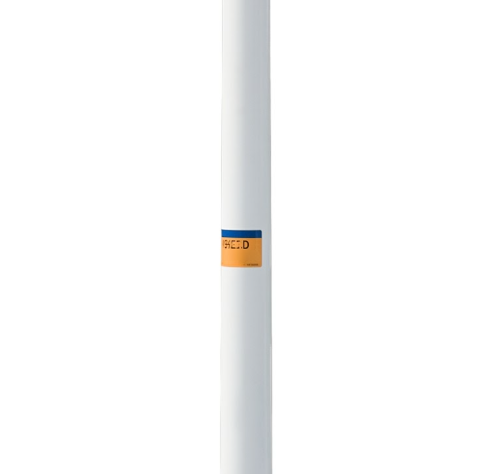
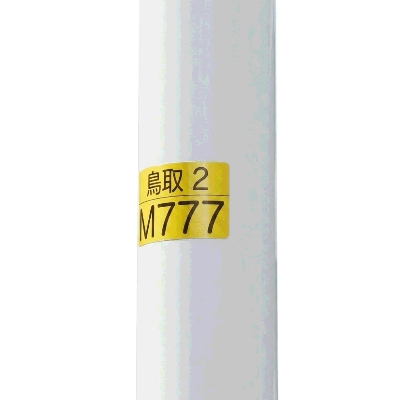
update

Changed region(s): [[0.33, 0.0, 0.72, 1.0]]

diff --git a/src/content/rule/asia/japan/kyusyu/kumamoto/_index.ja.md b/src/content/rule/asia/japan/kyusyu/kumamoto/_index.ja.md
@@ -143,9 +143,7 @@ references:
     <ul class="rule-list">
       <li>市外局番は096</li>
         <li>熊本の標識には赤いテープが巻いてある</li>
-        <li>菊陽町を中心に半導体企業が多く進出している</li>
         <li>この県にしかない<span class="quiz">止まれ</span>道路標示のデザインがある</li>
-        <li>標識のポールに<span class="quiz">点検シール</span>がある</li>
     </ul>
     {{% corp "asia/japan" "kyusyu/Kumamoto" %}}
 </div>
@@ -153,7 +151,7 @@ references:
 {{% tabs %}}
 {{% tab "赤いテープ" %}}
 {{% notice tip %}}
-標識や看板の支柱に赤いテープが巻いてある。
+標識や看板の支柱に赤いテープが巻いてある{{% ex "https://maps.app.goo.gl/ypmxr8QtNuzdHkHy8" "https://maps.app.goo.gl/4aER16X4dcivzGjV6" %}}。
 {{% /notice %}}
 
 <div class="googlemap-if">
@@ -169,16 +167,6 @@ references:
 
 <div class="googlemap-if">
 <img src="/rule/stop/kumamoto.jpg" width="240px" alt="熊本県の止まれ道路標示">
-</div>
-
-{{% /tab %}}
-{{% tab "標識ポール" %}}
-{{% notice tip %}}
-標識のポールに点検シールが貼られている。シールの様式に地域差が出ることがある。
-{{% /notice %}}
-
-<div class="googlemap-if">
-<img src="/rule/poles/kumamoto.png" width="200px" alt="熊本の標識ポール">
 </div>
 
 {{% /tab %}}

diff --git a/src/content/rule/asia/japan/kanto/ibaraki/_index.ja.md b/src/content/rule/asia/japan/kanto/ibaraki/_index.ja.md
@@ -145,7 +145,7 @@ references:
     <h2 class="section-title">全域</h2>
     <ul class="rule-list">
       <li>市外局番は029</li>
-      <li>標識のポールに<span class="quiz">点検シール</span>がある</li>
+      <li>標識のポールに黄色いテープが３本巻かれている</li>
     </ul>
     {{% corp "asia/japan" "kanto/ibaraki" %}}
 </div>
@@ -153,11 +153,11 @@ references:
 {{% tabs %}}
 {{% tab "標識ポール" %}}
 {{% notice tip %}}
-標識のポールに点検シールが貼られている。シールの様式に地域差が出ることがある。
+黄色いテープが３本巻かれている。覚えやすく、視認性も◎{{% ex "https://maps.app.goo.gl/UAdtzDFJJkziV3ys7" "https://maps.app.goo.gl/DATD6htX9k7m1f2A8" %}}。
 {{% /notice %}}
 
 <div class="googlemap-if">
-<img src="/rule/poles/ibaraki.png" width="200px" alt="茨城の標識ポール">
+<img src="/rule/poles/ibaraki.png" width="300px" alt="茨城の標識ポール">
 </div>
 
 {{% /tab %}}

diff --git a/src/content/rule/asia/japan/chugoku/tottori/_index.ja.md b/src/content/rule/asia/japan/chugoku/tottori/_index.ja.md
@@ -94,7 +94,7 @@ references:
     <h2 class="section-title">全域</h2>
     <ul class="rule-list">
       <li>市外局番は0857</li>
-      <li>標識のポールに<span class="quiz">点検シール</span>がある</li>
+      <li>標識のポールに黄色いシールが貼られている</li>
     </ul>
     {{% corp "asia/japan" "chugoku/tottori" %}}
 </div>
@@ -102,7 +102,7 @@ references:
 {{% tabs %}}
 {{% tab "標識ポール" %}}
 {{% notice tip %}}
-標識のポールに点検シールが貼られている。シールの様式に地域差が出ることがある。
+標識のポールに黄色いシールが張られている{{% ex "https://maps.app.goo.gl/6Giptf4HUQZDwKLt7" "https://maps.app.goo.gl/wL5EWPGUxipRDcD48" %}}。鳥取県というシールが貼られているときも。
 {{% /notice %}}
 
 <div class="googlemap-if">
@@ -119,7 +119,6 @@ references:
         <li>鳥取市の<span class="quiz">鳥取砂丘</span>は日本最大級の観光砂丘</li>
         <li>境港市は<span class="quiz">水産</span>の街で、水木しげるロードの妖怪ブロンズ像が並ぶ</li>
         <li>倉吉市は白壁土蔵と赤瓦の町並みが残る</li>
-        <li>県境にそびえる大山は中国地方最高峰で、平野部の目印になる</li>
     </ul>
 </div>
 

diff --git a/src/content/rule/asia/japan/chugoku/okayama/_index.ja.md b/src/content/rule/asia/japan/chugoku/okayama/_index.ja.md
@@ -112,7 +112,7 @@ references:
     <h2 class="section-title">全域</h2>
     <ul class="rule-list">
       <li>市外局番は086</li>
-      <li>標識のポールに<span class="quiz">点検シール</span>がある</li>
+      <li>標識のポールに黄色いシールが見つかる</li>
     </ul>
     {{% corp "asia/japan" "chugoku/okayama" %}}
 </div>
@@ -120,7 +120,7 @@ references:
 {{% tabs %}}
 {{% tab "標識ポール" %}}
 {{% notice tip %}}
-標識のポールに点検シールが貼られている{{% ex "https://maps.app.goo.gl/UgXsASEsXKDMJCoD7" "https://maps.app.goo.gl/6Eamv9wX9bCUPxWY8" %}}。シールの様式に地域差が出ることがある。
+標識のポールに標識管理番号が記載された黄色いシールが貼られている{{% ex "https://maps.app.goo.gl/UgXsASEsXKDMJCoD7" "https://maps.app.goo.gl/6Eamv9wX9bCUPxWY8" %}}。一枚387円らしい{{% ref "https://www.pref.okayama.jp/uploaded/life/1035858_10023985_misc.pdf" "標識資材単価 - 岡山県" %}}？
 {{% /notice %}}
 
 <div class="googlemap-if">

diff --git a/src/content/rule/asia/japan/kinki/nara/_index.ja.md b/src/content/rule/asia/japan/kinki/nara/_index.ja.md
@@ -121,7 +121,7 @@ references:
     <h2 class="section-title">全域</h2>
     <ul class="rule-list">
       <li>市外局番は0742</li>
-      <li>標識のポールに<span class="quiz">点検シール</span>がある</li>
+      <li>標識のポールに貼られたシールから県が特定できる</li>
     </ul>
     {{% corp "asia/japan" "kinki/nara" %}}
 </div>
@@ -129,7 +129,7 @@ references:
 {{% tabs %}}
 {{% tab "標識ポール" %}}
 {{% notice tip %}}
-標識のポールに点検シールが貼られている。シールの様式に地域差が出ることがある。
+標識のポールに貼られているシールから県がわかる。
 {{% /notice %}}
 
 <div class="googlemap-if">

diff --git a/src/content/rule/asia/japan/kinki/osaka/_index.ja.md b/src/content/rule/asia/japan/kinki/osaka/_index.ja.md
@@ -142,7 +142,7 @@ references:
     <h2 class="section-title">全域</h2>
     <ul class="rule-list">
       <li>市外局番は06</li>
-      <li>標識のポールに<span class="quiz">点検シール</span>がある</li>
+      <li>標識のポールに貼られたシールから県が特定できる</li>
     </ul>
     {{% corp "asia/japan" "kinki/osaka" %}}
 </div>
@@ -150,7 +150,7 @@ references:
 {{% tabs %}}
 {{% tab "標識ポール" %}}
 {{% notice tip %}}
-標識のポールに点検シールが貼られている。シールの様式に地域差が出ることがある。
+標識のポールに貼られているシールから県がわかる。
 {{% /notice %}}
 
 <div class="googlemap-if">

diff --git a/src/content/rule/asia/japan/kyusyu/nagasaki/_index.ja.md b/src/content/rule/asia/japan/kyusyu/nagasaki/_index.ja.md
@@ -129,7 +129,7 @@ references:
       <li>斜面が多い</li>
       <li>自転車を保有している家庭が少ない</li>
       <li>この県にしかない<span class="quiz">止まれ</span>道路標示のデザインがある</li>
-      <li>標識のポールに<span class="quiz">点検シール</span>がある</li>
+      <li>標識のポールに貼られたシールから県が特定できる</li>
     </ul>
     {{% corp "asia/japan" "kyusyu/nagasaki" %}}
 </div>
@@ -137,7 +137,7 @@ references:
 {{% tabs %}}
 {{% tab "標識ポール" %}}
 {{% notice tip %}}
-標識のポールに点検シールが貼られている。シールの様式に地域差が出ることがある。
+標識のポールに貼られているシールから県がわかる。
 {{% /notice %}}
 
 <div class="googlemap-if">

diff --git a/src/content/rule/asia/japan/kyusyu/oita/_index.ja.md b/src/content/rule/asia/japan/kyusyu/oita/_index.ja.md
@@ -112,7 +112,7 @@ references:
     <ul class="rule-list">
       <li>市外局番は097</li>
       <li>この県にしかない<span class="quiz">止まれ</span>道路標示のデザインがある</li>
-      <li>標識のポールに<span class="quiz">点検シール</span>がある</li>
+      <li>標識のポールに貼られたシールから県が特定できる</li>
     </ul>
     {{% corp "asia/japan" "kyusyu/oita" %}}
 </div>
@@ -131,7 +131,7 @@ references:
 {{% /tab %}}
 {{% tab "標識ポール" %}}
 {{% notice tip %}}
-標識のポールに点検シールが貼られている。シールの様式に地域差が出ることがある。
+標識のポールに貼られているシールから県がわかる。
 {{% /notice %}}
 
 <div class="googlemap-if">

diff --git a/src/content/rule/asia/japan/kyusyu/saga/_index.ja.md b/src/content/rule/asia/japan/kyusyu/saga/_index.ja.md
@@ -117,7 +117,7 @@ references:
       <li>市外局番は0952</li>
         <li>佐賀と{{% goto "../miyazaki/" "宮崎" %}}では六角形の擁壁が見られる</li>
         <li>佐賀～{{% goto "../fukuoka/" "福岡" %}}の平野部では日本で最大規模のクリークが広がっている</li>
-        <li>標識のポールに<span class="quiz">点検シール</span>がある</li>
+        <li>標識のポールに貼られたシールから県が特定できる</li>
     </ul>
     {{% corp "asia/japan" "kyusyu/saga" %}}
 </div>
@@ -146,7 +146,7 @@ references:
 {{% /tab %}}
 {{% tab "標識ポール" %}}
 {{% notice tip %}}
-標識のポールに点検シールが貼られている。シールの様式に地域差が出ることがある。
+標識のポールに貼られているシールから県がわかる。
 {{% /notice %}}
 
 <div class="googlemap-if">

diff --git a/src/content/rule/asia/japan/shikoku/ehime/_index.ja.md b/src/content/rule/asia/japan/shikoku/ehime/_index.ja.md
@@ -114,7 +114,7 @@ references:
     <h2 class="section-title">全域</h2>
     <ul class="rule-list">
       <li>市外局番は089</li>
-      <li>標識のポールに<span class="quiz">点検シール</span>がある</li>
+      <li>標識のポールに貼られたシールから県が特定できる</li>
     </ul>
     {{% corp "asia/japan" "shikoku/ehime" %}}
 </div>
@@ -122,7 +122,7 @@ references:
 {{% tabs %}}
 {{% tab "標識ポール" %}}
 {{% notice tip %}}
-標識のポールに点検シールが貼られている。シールの様式に地域差が出ることがある。
+標識のポールに貼られているシールから県がわかる。
 {{% /notice %}}
 
 <div class="googlemap-if">

diff --git a/src/content/rule/asia/japan/shikoku/kagawa/_index.ja.md b/src/content/rule/asia/japan/shikoku/kagawa/_index.ja.md
@@ -111,7 +111,7 @@ references:
     <ul class="rule-list">
       <li>市外局番は087</li>
         <li>オレンジの●がふたつ描かれた看板がある</li>
-        <li>標識のポールに<span class="quiz">点検シール</span>がある</li>
+        <li>標識のポールに貼られたシールから県が特定できる</li>
     </ul>
     {{% corp "asia/japan" "shikoku/kagawa" %}}
 </div>
@@ -119,7 +119,7 @@ references:
 {{% tabs %}}
 {{% tab "標識ポール" %}}
 {{% notice tip %}}
-標識のポールに点検シールが貼られている。シールの様式に地域差が出ることがある。
+標識のポールに貼られているシールから県がわかる。
 {{% /notice %}}
 
 <div class="googlemap-if">

diff --git a/src/content/rule/asia/japan/shikoku/kochi/_index.ja.md b/src/content/rule/asia/japan/shikoku/kochi/_index.ja.md
@@ -112,7 +112,7 @@ references:
     <h2 class="section-title">全域</h2>
     <ul class="rule-list">
       <li>市外局番は088</li>
-      <li>標識のポールに<span class="quiz">点検シール</span>がある</li>
+      <li>標識のポールに貼られたシールから県が特定できる</li>
     </ul>
     {{% corp "asia/japan" "shikoku/kochi" %}}
 </div>
@@ -120,7 +120,7 @@ references:
 {{% tabs %}}
 {{% tab "標識ポール" %}}
 {{% notice tip %}}
-標識のポールに点検シールが貼られている。シールの様式に地域差が出ることがある。
+標識のポールに貼られているシールから県がわかる。
 {{% /notice %}}
 
 <div class="googlemap-if">